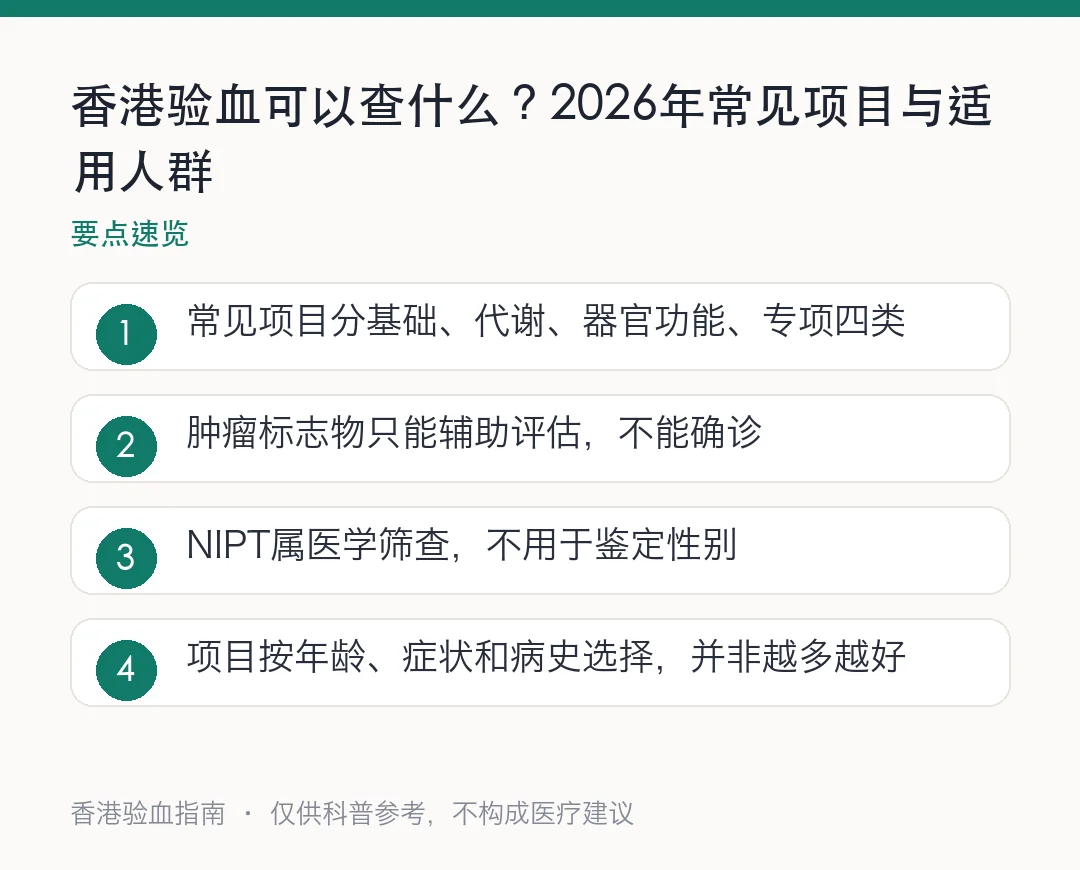
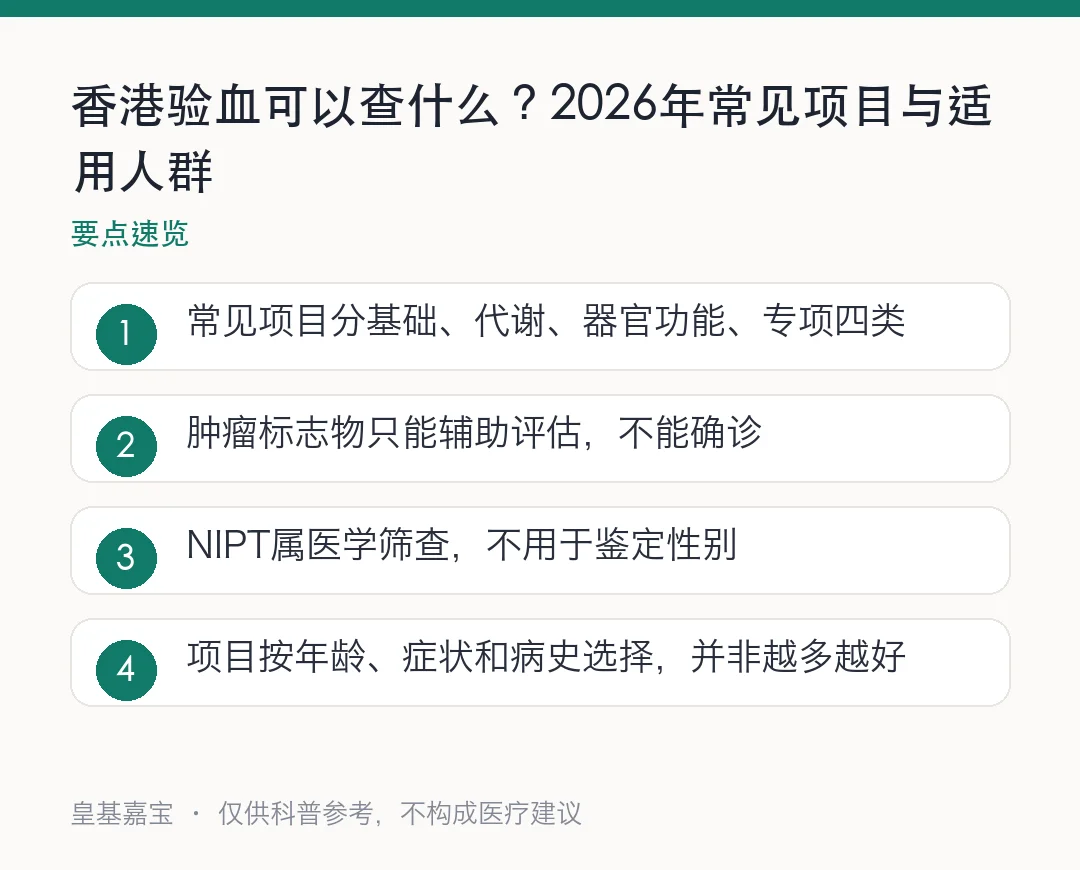
站名改为皇基嘉宝，补充机构信息

Changed region(s): [[0.0611, 0.9, 0.5806, 0.9621]]

diff --git a/src/content/cities/hongkong.md b/src/content/cities/hongkong.md
@@ -1,5 +1,5 @@
 ---
-title: 香港验血指南：公立私营渠道、套餐与报告
+title: 香港本地验血指南：公立私营渠道、套餐与报告
 description: 香港本地居民验血与体检指南：说明公立与私营渠道差异、是否需要医生转介、常见自费套餐、预约与取报告流程，以及医疗券和保险报销的一般须知。
 faq:
 - q: 在香港验血一定要医生转介吗？
